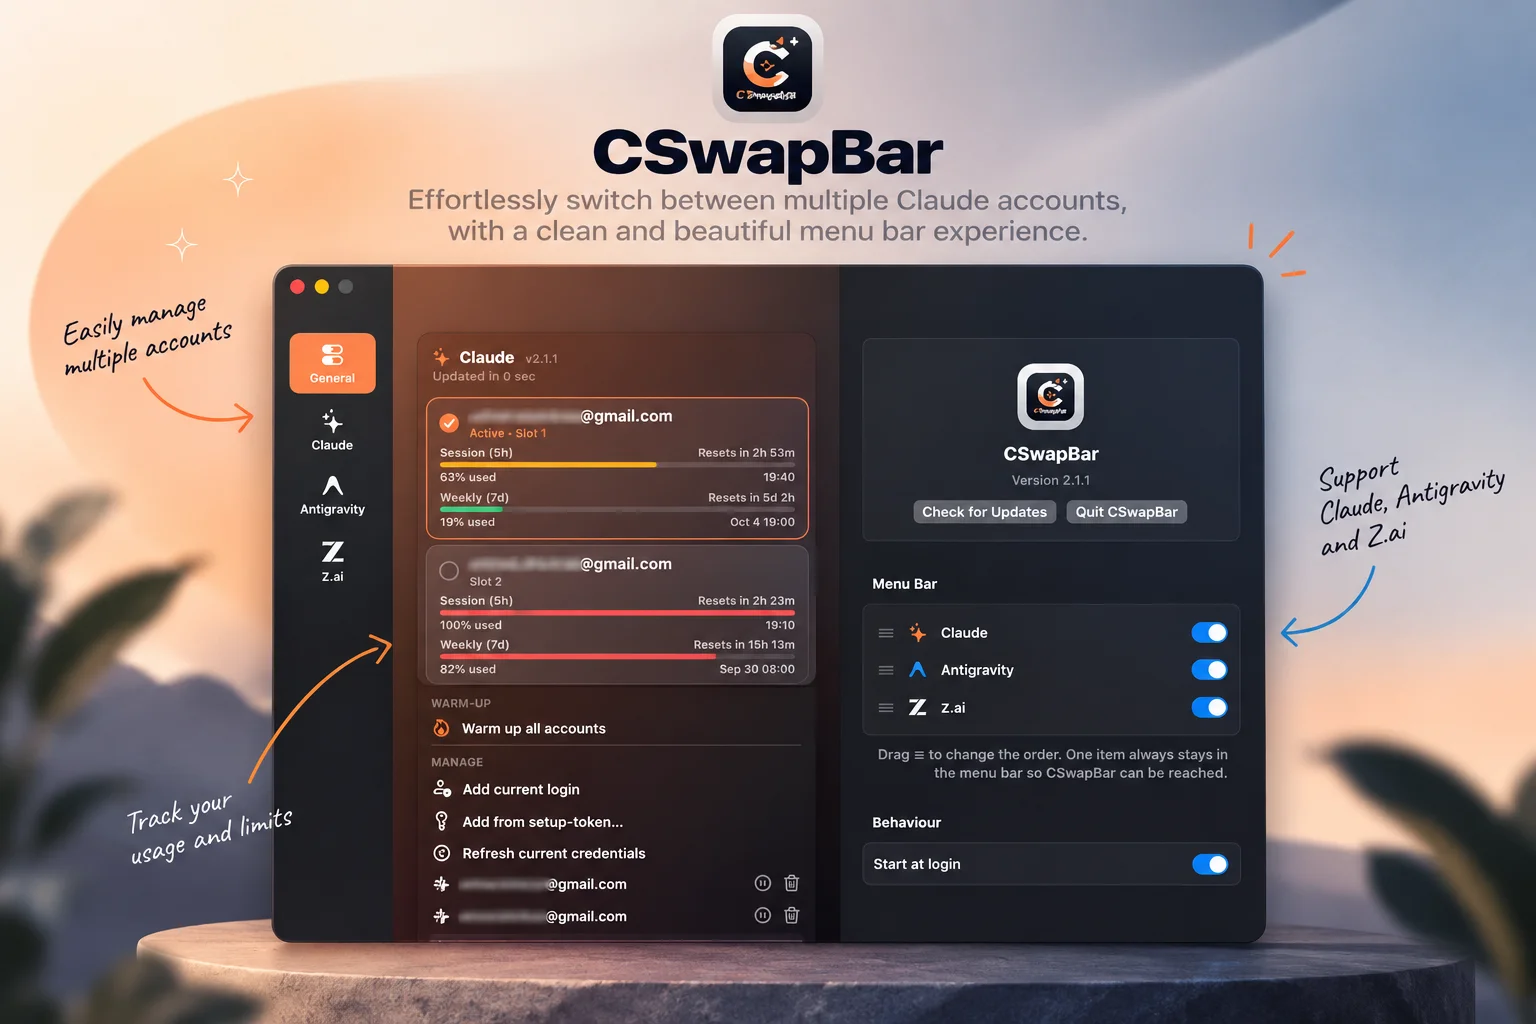
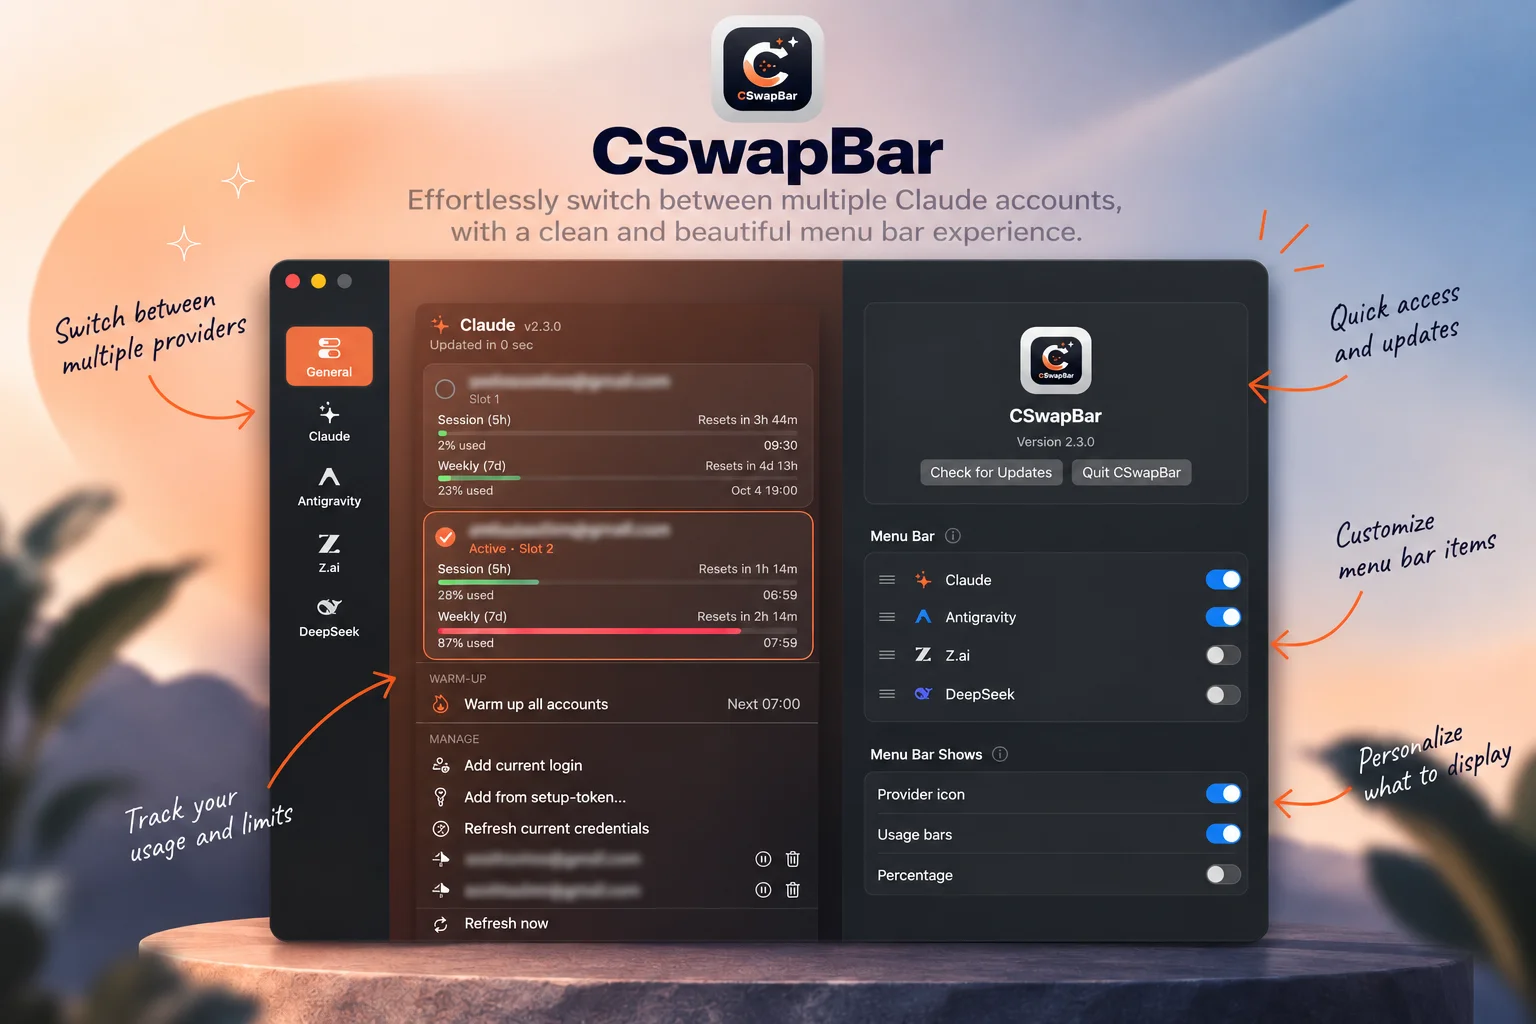
Refresh README screenshot with DeepSeek and menu bar display options

diff --git a/README.md b/README.md
@@ -70,7 +70,7 @@ appears after a blocked launch.
 ## Screenshot
 
 <p align="center">
-  <img src="Resources/screenshots/hero.webp" alt="CSwapBar Settings window showing the Claude popover with multiple accounts and usage bars alongside menu bar icon toggles for Claude, Antigravity, and z.ai" width="720">
+  <img src="Resources/screenshots/hero.webp" alt="CSwapBar Settings window showing the Claude popover with multiple accounts and usage bars alongside menu bar toggles for Claude, Antigravity, z.ai, and DeepSeek and the Menu Bar Shows options" width="720">
 </p>
 
 ## What it does
